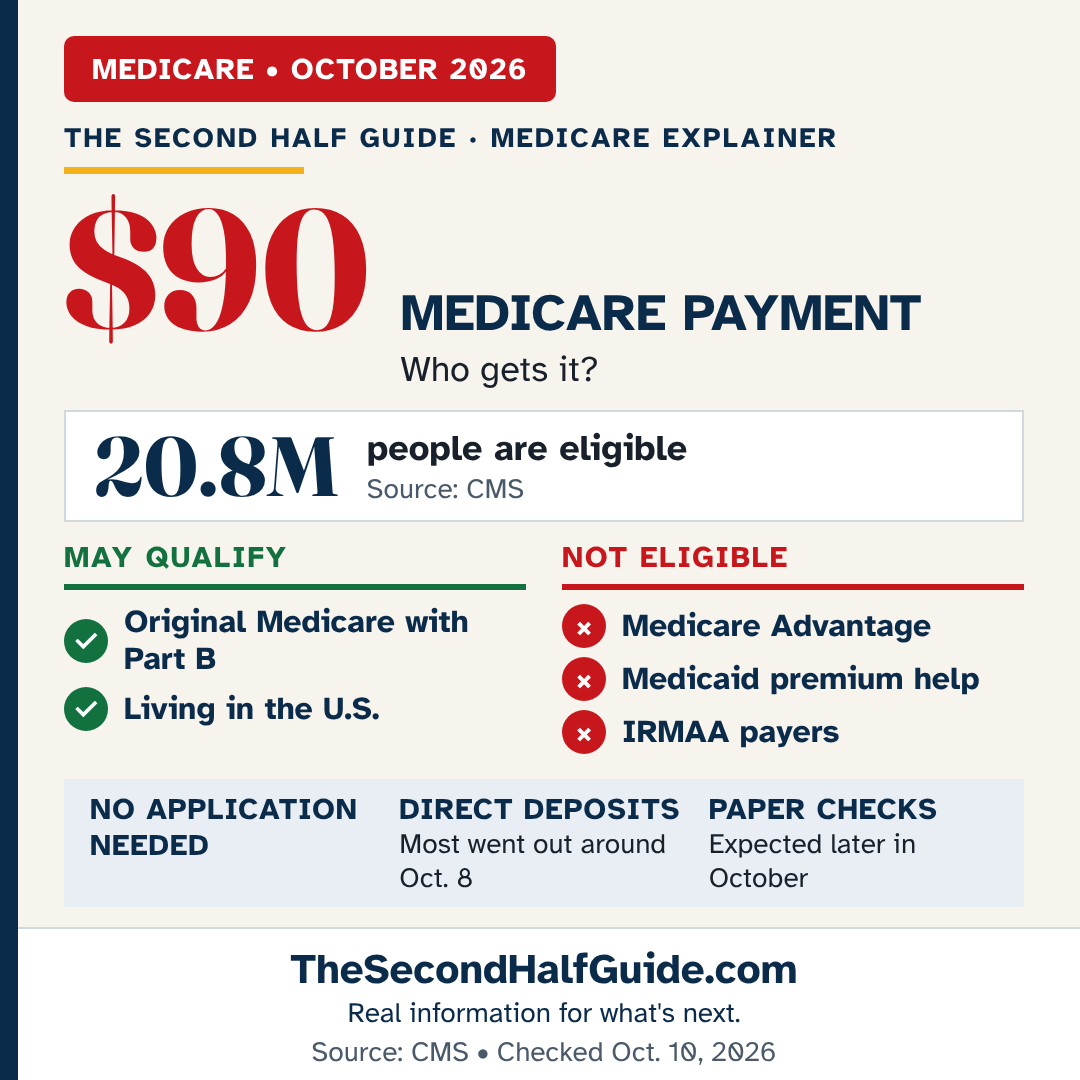
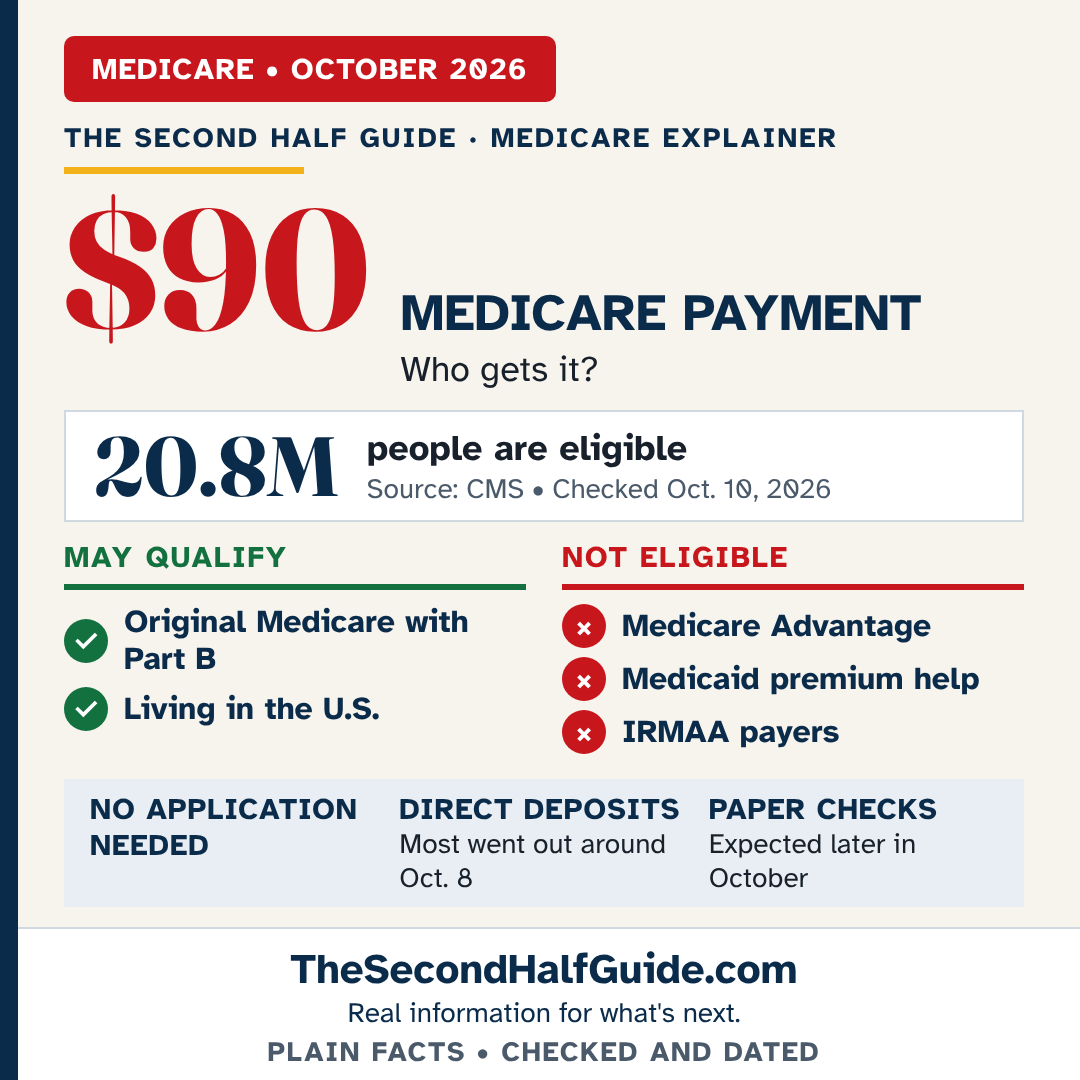
SECONDSOCIAL: restore second tagline, move checked line into stat/slide headers, captions live in campaign JSON
Claude-Session: https://claude.ai/code/session_013usLijphTiRiK9vK4nRT8e

diff --git a/secondsocial/secondsocial.js b/secondsocial/secondsocial.js
@@ -30,72 +30,7 @@ function draw(){const d=document.getElementById('download');
   if(d){d.disabled=false;d.textContent='Download current PNG'}}
 draw();
 
-const captions={
-'Facebook Page':`A one-time $90 Medicare payment is going out this month — but not everyone with Medicare qualifies.
-
-CMS says about 20.8 million people are eligible. Eligible beneficiaries are in Original Medicare Part B, live in the U.S., are not receiving Medicaid premium assistance, and do not pay IRMAA. Medicare Advantage members are not eligible. No application is required.
-
-Full sourced story:
-https://thesecondhalfguide.com/medicare-90-payment
-
-Source: CMS • Checked Oct. 10, 2026`,
-'Facebook Group':`For anyone seeing posts about the $90 Medicare payment: it is real, but it is not for everyone.
-
-CMS says it is a one-time October payment for certain people in Original Medicare Part B. Medicare Advantage members, people receiving Medicaid premium assistance, and people paying IRMAA are not eligible. No application is required.
-
-Full sourced explanation:
-https://thesecondhalfguide.com/medicare-90-payment
-
-Source: CMS • Checked Oct. 10, 2026`,
-'Instagram Carousel':`The $90 Medicare payment is real — but eligibility is narrower than many posts make it sound.
-
-Swipe for who may qualify, who is not eligible, and how the payment arrives.
-
-Full sourced story: LINK IN BIO
-TheSecondHalfGuide.com/medicare-90-payment
-
-Source: CMS • Checked Oct. 10, 2026
-
-#Medicare #Retirement #Medicare2026 #SecondHalfGuide`,
-'Instagram Story':`Use native Link sticker.
-
-Sticker label: READ THE FULL SOURCED STORY
-Destination:
-https://thesecondhalfguide.com/medicare-90-payment`,
-'Instagram Reel':`The $90 Medicare payment is real — but not everyone gets it.
-
-Who may qualify, who is not eligible, how it arrives, and what to watch for.
-
-Full sourced story: LINK IN BIO
-TheSecondHalfGuide.com/medicare-90-payment
-
-Source: CMS • Checked Oct. 10, 2026`,
-'Threads':`A one-time $90 Medicare payment is going out this month.
-
-CMS says about 20.8 million people are eligible. It is for certain people in Original Medicare Part B — not Medicare Advantage — and there is no application.
-
-Full sourced story:
-https://thesecondhalfguide.com/medicare-90-payment
-
-Source: CMS • Checked Oct. 10, 2026`,
-'TikTok':`The $90 Medicare payment is real — but not everyone gets it.
-
-Who may qualify, who is excluded, how it arrives, and what to watch for.
-
-Full sourced story: LINK IN BIO / PROFILE
-TheSecondHalfGuide.com/medicare-90-payment
-
-Source: CMS • Checked Oct. 10, 2026`,
-'YouTube Short':`TITLE: $90 Medicare Payment: Who Gets It?
-
-The $90 Medicare payment is real, but eligibility is limited. This Short explains who may qualify, who does not, how the payment arrives, and what to watch for.
-
-Full sourced story: first link on our channel profile.
-TheSecondHalfGuide.com/medicare-90-payment
-
-Source: CMS • Checked Oct. 10, 2026`
-};
-const sel=document.getElementById('copySelect'),ta=document.getElementById('copyText');Object.keys(captions).forEach(k=>{const o=document.createElement('option');o.textContent=k;sel.appendChild(o)});function setCopy(){ta.value=captions[sel.value]}sel.onchange=setCopy;setCopy();document.getElementById('copyBtn').onclick=()=>navigator.clipboard.writeText(ta.value);document.getElementById('download').onclick=()=>{if(mode==='video')return;const a=document.createElement('a');a.download=FILES[mode]+'.png';a.href=img.src;a.click()};
+let captions={};const sel=document.getElementById('copySelect'),ta=document.getElementById('copyText');function setCopy(){ta.value=captions[sel.value]||''}sel.onchange=setCopy;fetch('/secondsocial/campaigns/medicare-90-payment.json',{cache:'no-store'}).then(r=>r.json()).then(d=>{captions=d.captions||{};sel.innerHTML='';Object.keys(captions).forEach(k=>{const o=document.createElement('option');o.textContent=k;sel.appendChild(o)});setCopy()}).catch(()=>{ta.value='Could not load captions from the campaign file.'});document.getElementById('copyBtn').onclick=()=>navigator.clipboard.writeText(ta.value);document.getElementById('download').onclick=()=>{if(mode==='video')return;const a=document.createElement('a');a.download=FILES[mode]+'.png';a.href=img.src;a.click()};
 
 const topical=[
  {title:'2027 Medicare Star Ratings',score:98,why:'Released Oct. 8; Open Enrollment starts Oct. 15',state:'recommended'},

diff --git a/secondsocial/render/render.py b/secondsocial/render/render.py
@@ -47,7 +47,7 @@ body:before{content:"";position:absolute;left:0;top:0;bottom:0;width:18px;backgr
 .foot{margin:auto -56px 0 -64px;padding:14px 56px 16px 64px;background:#fff;border-top:2px solid var(--line);text-align:center}
 .foot .site{font-size:42px;font-weight:700;color:var(--navy)}
 .foot .tag{font-size:28px;color:var(--navy)}
-.foot .src{font-size:28px;color:var(--muted);margin-top:4px}
+.foot .src{font-size:28px;font-weight:700;letter-spacing:.06em;color:var(--muted);margin-top:4px}
 .gap{flex:1;min-height:20px}
 .big .hero b{font-size:260px}.big .stat b{font-size:100px}
 .slide{font-size:70px;font-weight:700;color:var(--navy);font-family:Fra,serif;line-height:1.1;margin-top:34px}
@@ -60,8 +60,8 @@ def icon(ok): return '<span class="ic">%s</span>' % ('✓' if ok else '×')
 def rows(items, ok): return ''.join('<div class="row">%s<span>%s</span></div>' % (icon(ok), e(i)) for i in items)
 
 def footer(c, with_src=True):
-    return ('<div class="foot"><div class="site">TheSecondHalfGuide.com</div><div class="tag">%s</div>%s</div>'
-            % (e(c['tagline']), '<div class="src">%s</div>' % e(c['checkedLine']) if with_src else ''))
+    return ('<div class="foot"><div class="site">TheSecondHalfGuide.com</div><div class="tag">%s</div><div class="src">%s</div></div>'
+            % (e(c['tagline']), e(c['trust'])))
 
 def hero(c, big=False):
     return ('<div class="hero"><b>%s</b><div class="l1">%s<span class="l2">%s</span></div></div>'
@@ -94,18 +94,18 @@ def car1(c):
 
 def car2(c):
     q = c['qualify']
-    return 1080, page('<div class="num">2/4</div><div class="badge">%s</div><div class="slide">Who may qualify?</div><div class="gap"></div><div class="cols" style="grid-template-columns:1fr"><div class="col y"><h3>%s</h3><div style="font-size:0"></div>%s</div></div><div class="sub">%s</div><div class="gap"></div>%s'
-        % (e(c['badge']), e(q['title']), ''.join('<div class="row" style="font-size:56px;margin:44px 0;gap:26px">%s<span>%s</span></div>' % (icon(True), e(i)) for i in q['items']), e(c['otherRules']), footer(c)), 1080)
+    return 1080, page('<div class="num">2/4</div><div class="badge">%s</div><div class="slide">Who may qualify?</div><div class="sub" style="font-size:30px;color:var(--muted);margin-top:10px">%s</div><div class="gap"></div><div class="cols" style="grid-template-columns:1fr"><div class="col y"><h3>%s</h3><div style="font-size:0"></div>%s</div></div><div class="sub">%s</div><div class="gap"></div>%s'
+        % (e(c['badge']), e(c['stat']['source']), e(q['title']), ''.join('<div class="row" style="font-size:56px;margin:44px 0;gap:26px">%s<span>%s</span></div>' % (icon(True), e(i)) for i in q['items']), e(c['otherRules']), footer(c)), 1080)
 
 def car3(c):
     n = c['notEligible']
-    return 1080, page('<div class="num">3/4</div><div class="badge">%s</div><div class="slide">Who is not eligible?</div><div class="gap"></div><div class="cols" style="grid-template-columns:1fr"><div class="col n"><h3>%s</h3>%s</div></div><div class="gap"></div>%s'
-        % (e(c['badge']), e(n['title']), ''.join('<div class="row" style="font-size:56px;margin:44px 0;gap:26px">%s<span>%s</span></div>' % (icon(False), e(i)) for i in n['items']), footer(c)), 1080)
+    return 1080, page('<div class="num">3/4</div><div class="badge">%s</div><div class="slide">Who is not eligible?</div><div class="sub" style="font-size:30px;color:var(--muted);margin-top:10px">%s</div><div class="gap"></div><div class="cols" style="grid-template-columns:1fr"><div class="col n"><h3>%s</h3>%s</div></div><div class="gap"></div>%s'
+        % (e(c['badge']), e(c['stat']['source']), e(n['title']), ''.join('<div class="row" style="font-size:56px;margin:44px 0;gap:26px">%s<span>%s</span></div>' % (icon(False), e(i)) for i in n['items']), footer(c)), 1080)
 
 def car4(c):
     items = c['arrives']
-    return 1080, page('<div class="num">4/4</div><div class="badge">%s</div><div class="slide">How it arrives</div><div class="gap"></div>%s<div class="gap"></div><div class="link">Full story: %s</div><div style="height:28px"></div>%s'
-        % (e(c['badge']), ''.join('<div class="row" style="font-size:42px;margin:26px 0"><span class="ic" style="background:var(--gold);color:var(--navy)">•</span><span>%s</span></div>' % e(i) for i in items), e(c['_display']), footer(c)), 1080)
+    return 1080, page('<div class="num">4/4</div><div class="badge">%s</div><div class="slide">How it arrives</div><div class="sub" style="font-size:30px;color:var(--muted);margin-top:10px">%s</div><div class="gap"></div>%s<div class="gap"></div><div class="link">Full story: %s</div><div style="height:28px"></div>%s'
+        % (e(c['badge']), e(c['stat']['source']), ''.join('<div class="row" style="font-size:42px;margin:26px 0"><span class="ic" style="background:var(--gold);color:var(--navy)">•</span><span>%s</span></div>' % e(i) for i in items), e(c['_display']), footer(c)), 1080)
 
 def story(c):
     # Instagram Story: keep key content between y=250 and y=1670 (UI overlays top and bottom ~250px)
